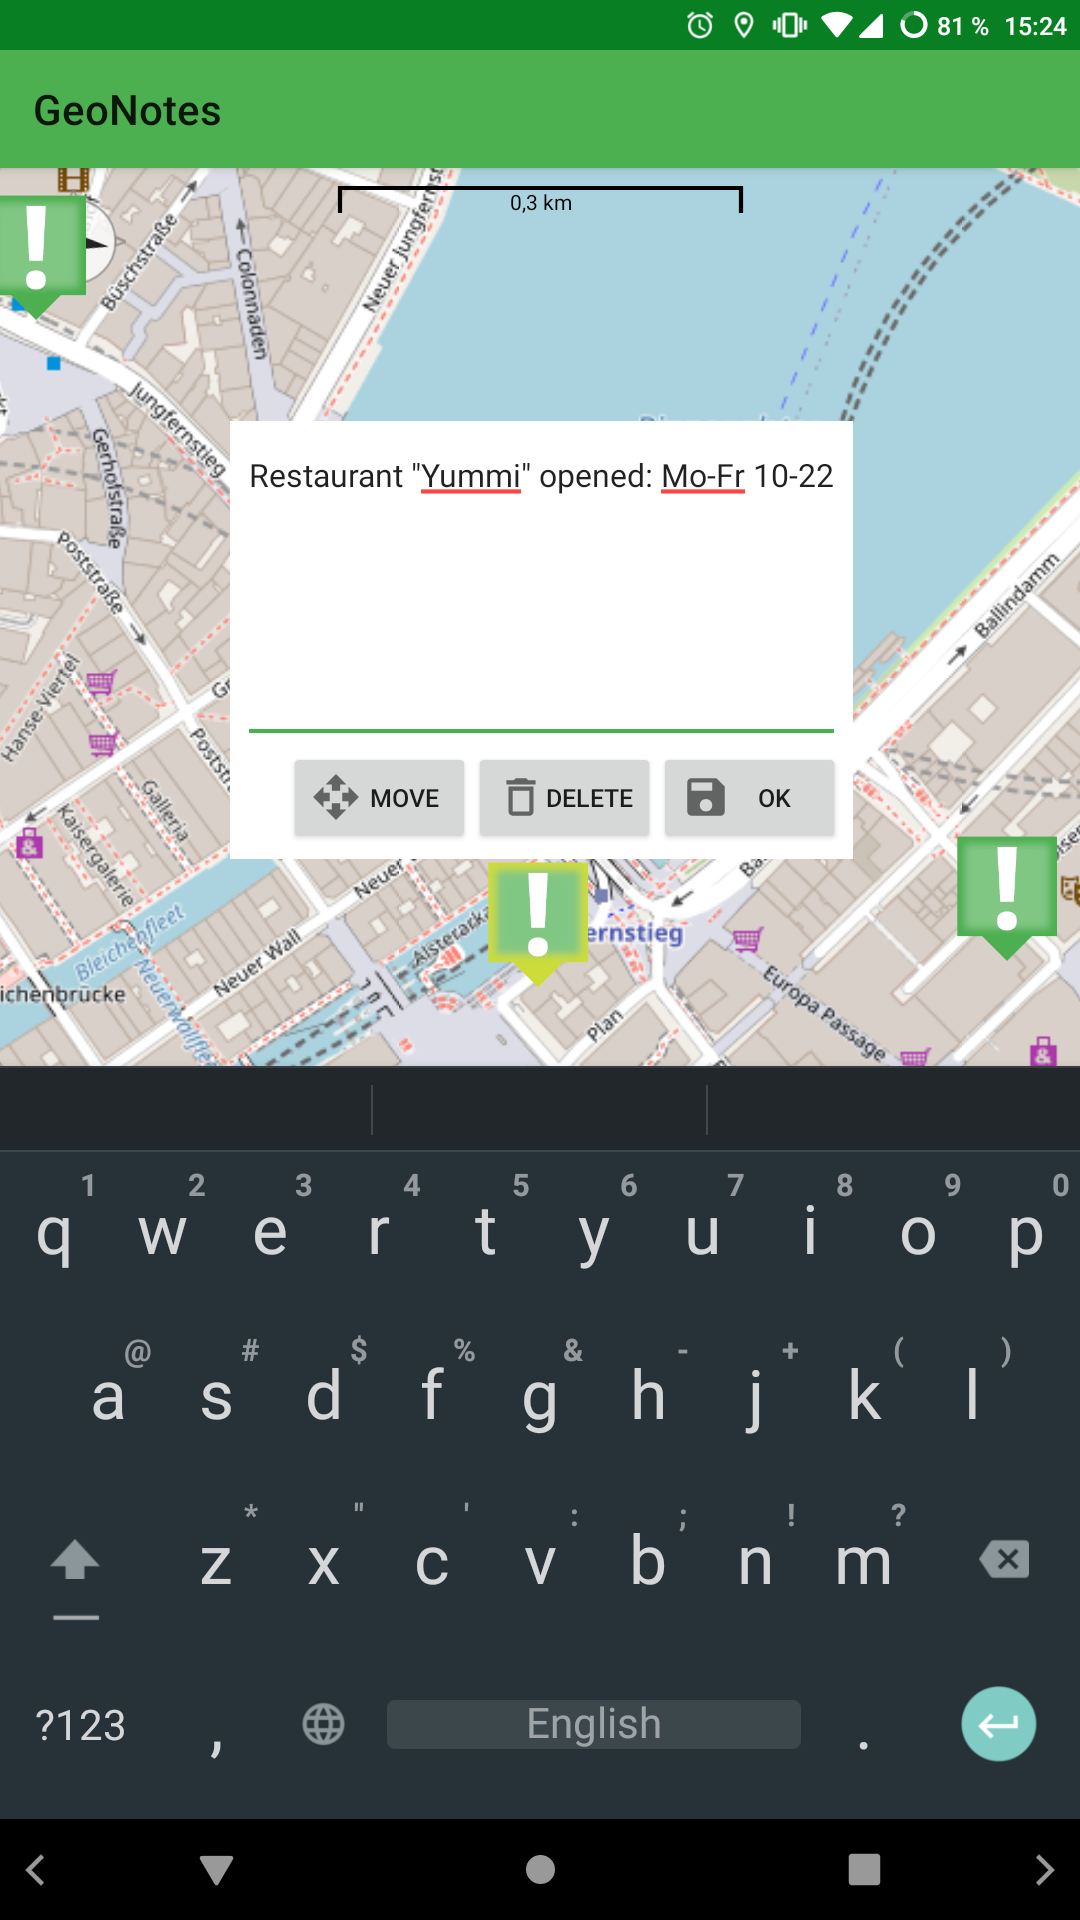
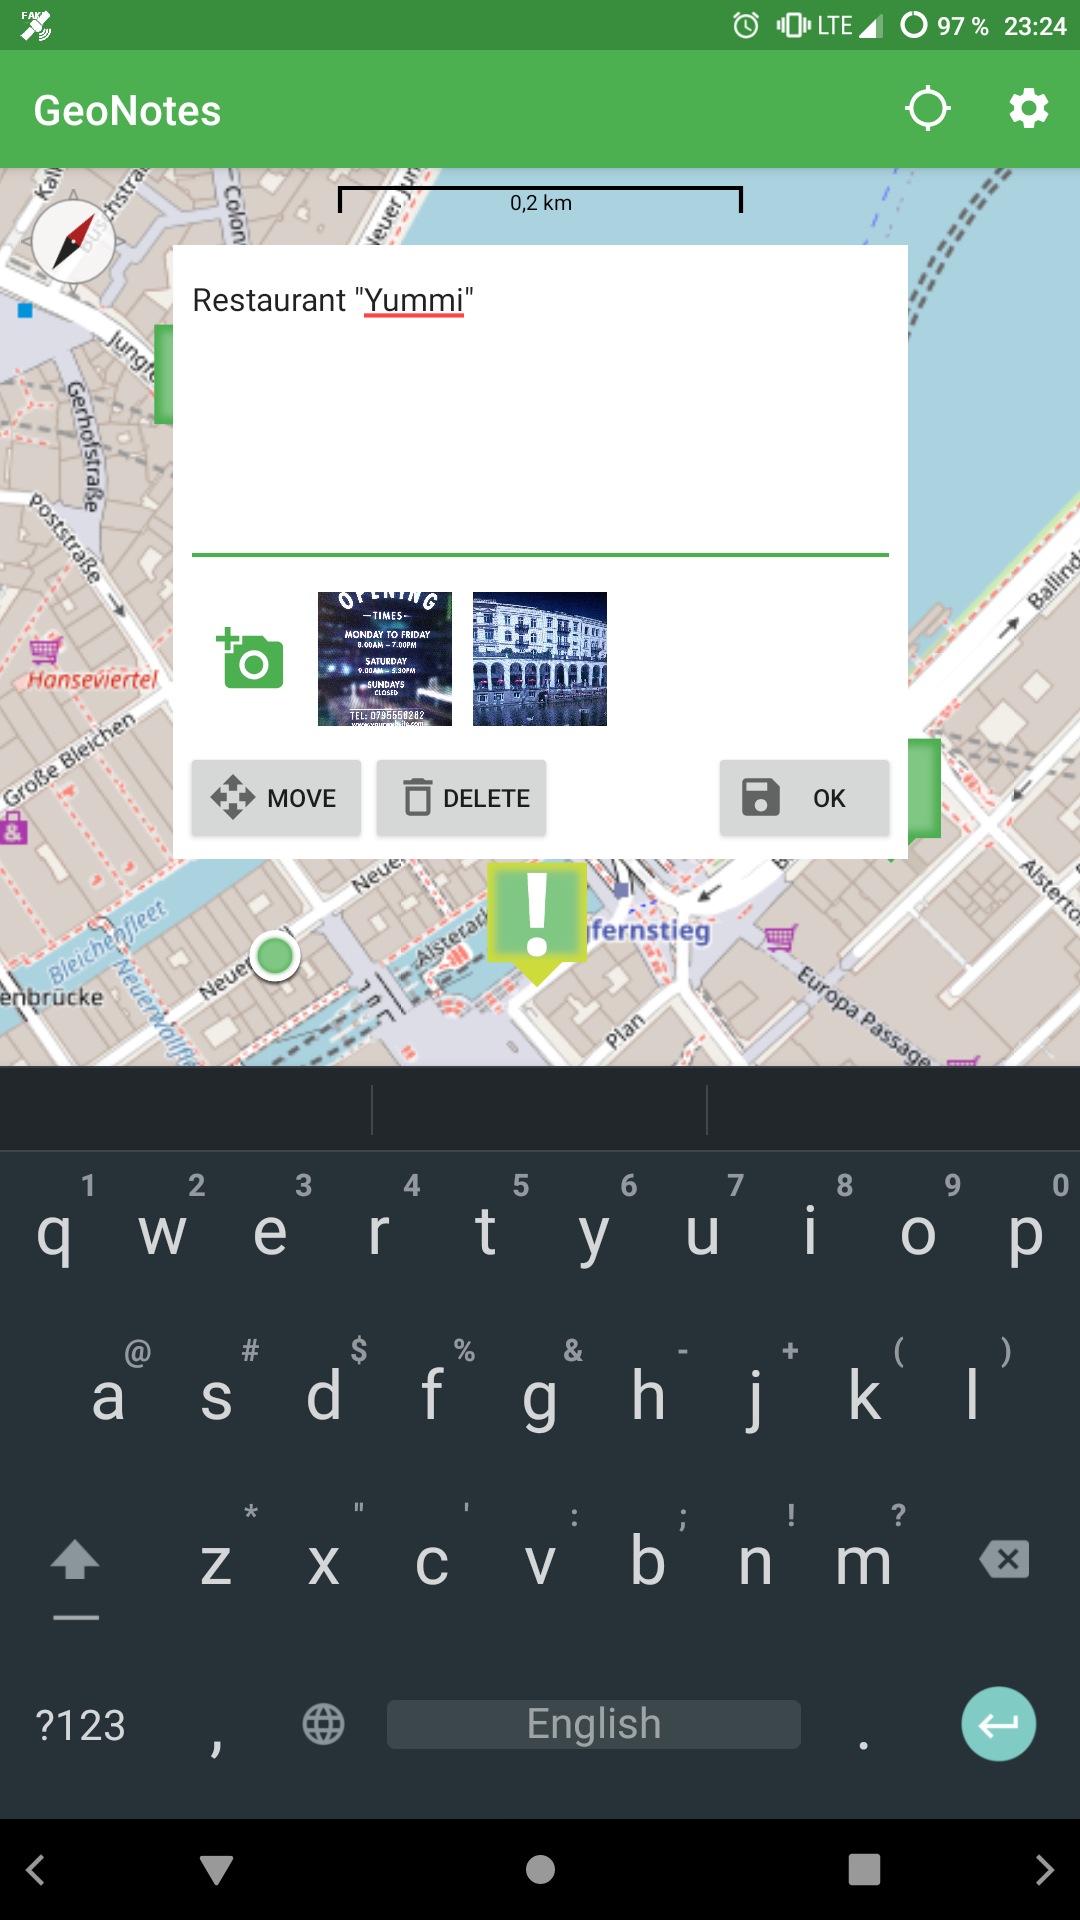
Update screenshots and adjust README

Changed region(s): [[0.0, 0.0, 1.0, 0.5625]]

diff --git a/README.md b/README.md
@@ -1,7 +1,7 @@
 <img align="right" width="64px" src="https://raw.githubusercontent.com/hauke96/GeoNotes/main/app/src/main/res/mipmap-xxxhdpi/ic_launcher.png">
 
 # GeoNotes
-A simple app to create and manage georeferences notes on a map. The goal is to create the notes very fast and without any unnecessary UI/UX overhead.
+A simple app to create and manage georeferenced notes (text and photos) on a map. The goal is to create the notes very fast and without any unnecessary UI/UX overhead.
 
 <p align="center">
 <img src="screenshots.png" alt="GeoNotes Screenshots" height="500"/>
@@ -12,29 +12,16 @@ A simple app to create and manage georeferences notes on a map. The goal is to c
 [<img src="https://fdroid.gitlab.io/artwork/badge/get-it-on.png" alt="Get it on F-Droid" height="60">](https://f-droid.org/packages/de.hauke_stieler.geonotes/)
 [<img src="https://user-images.githubusercontent.com/663460/26973090-f8fdc986-4d14-11e7-995a-e7c5e79ed925.png" alt="Download APK from GitHub" height="60">](https://github.com/hauke96/geonotes/releases/latest)
 
+Runs on Android 4.1 and newer.
+
 ## Features
 
 * Create/remove notes
+* Attach photos to note
 * Move notes
 * Store/load notes
 * Show current location
 
 ## Manual
 
-### Create notes
-
-Just tap on the map, write your text and then tap on "OK".
-
-### Move notes
-
-Select a note (tap on it on the map), tap on "move" and then tap on the map to select the new location. You don't need to tap on save to store the new location.
-
-### Remove notes
-
-Select a note and tap on "remove".
-
-## Ideas
-
-For future features:
-
-* Attach photo to note
+See the [OSM Wiki page](https://wiki.openstreetmap.org/wiki/GeoNotes) for manual and descriptions about all the features.
